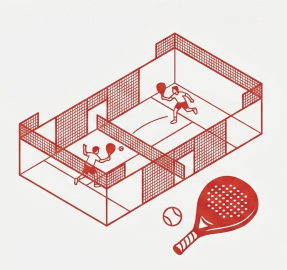
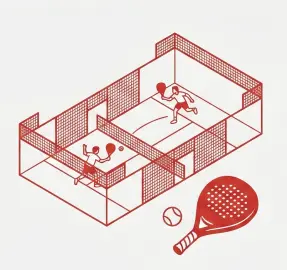
fix: BookModal - proper WebP images, side-by-side cards on mobile

diff --git a/components/BookModal.tsx b/components/BookModal.tsx
@@ -43,7 +43,7 @@ export default function BookModal() {
 
   return (
     <Dialog open={isBookModalOpen} onOpenChange={(open) => !open && closeBookModal()}>
-      <DialogContent className="max-w-[777px] p-0 overflow-hidden bg-white border-none rounded-none">
+      <DialogContent className="max-w-[95vw] sm:max-w-[777px] p-0 overflow-hidden bg-white border-none rounded-none">
         {/* Close button - custom SVG X icon */}
         <button
           type="button"
@@ -65,31 +65,31 @@ export default function BookModal() {
         </DialogDescription>
 
         {/* Header */}
-        <div className="pt-14 pb-8 px-6 text-center">
-          <h1 className="text-[#2B2B2B] font-extrabold text-3xl sm:text-[44px] leading-tight uppercase tracking-wide">
+        <div className="pt-10 sm:pt-14 pb-4 sm:pb-8 px-4 sm:px-6 text-center">
+          <h1 className="text-[#2B2B2B] font-extrabold text-2xl sm:text-[44px] leading-tight uppercase tracking-wide">
             {modalTitle}
           </h1>
-          <p className="mt-3 text-[#6B7280] text-base font-normal">
+          <p className="mt-2 sm:mt-3 text-[#6B7280] text-sm sm:text-base font-normal">
             {modalSubtitle}
           </p>
         </div>
 
         {/* Cards */}
-        <div className="flex flex-col sm:flex-row gap-8 px-10 pb-10 items-stretch">
+        <div className="flex flex-row gap-3 sm:gap-8 px-4 sm:px-10 pb-10 items-stretch">
           {/* Sport 1 Card (Padel) */}
-          <div className="flex-1 bg-[#F3F3F3] flex flex-col items-center overflow-hidden min-h-[360px] sm:min-h-[466px]">
+          <div className="flex-1 bg-[#F3F3F3] flex flex-col items-center overflow-hidden min-h-[300px] sm:min-h-[466px]">
             <div className="flex-1 flex items-center justify-center p-5 w-full">
               <Image
                 src={sport1Image}
                 alt={sport1Title}
                 width={287}
                 height={270}
-                className="w-full max-w-[287px] h-auto object-contain"
-                sizes="(max-width: 768px) 100vw, 287px"
+                className="w-full max-w-[140px] sm:max-w-[287px] h-auto object-contain"
+                sizes="(max-width: 768px) 50vw, 287px"
               />
             </div>
             <div className="pb-6 text-center w-full px-6">
-              <h2 className="text-[#D2352B] font-extrabold text-[36px] uppercase text-center mb-6">
+              <h2 className="text-[#D2352B] font-extrabold text-xl sm:text-[36px] uppercase text-center mb-3 sm:mb-6">
                 {sport1Title}
               </h2>
               {sport1ButtonTitle && (
@@ -98,7 +98,7 @@ export default function BookModal() {
                     type="button"
                     onClick={() => handleOpenBooking(sport1Url)}
                     aria-label={`${sport1ButtonTitle} ${sport1Title} (opens in new tab)`}
-                    className="flex items-center gap-3 px-8 py-4 border border-[#D2352B] rounded-sm text-[#D2352B] font-bold text-sm uppercase tracking-wide hover:bg-[#D2352B]/5 transition-colors w-full max-w-[260px] justify-center cursor-pointer"
+                    className="flex items-center gap-3 px-4 sm:px-8 py-3 sm:py-4 border border-[#D2352B] rounded-sm text-[#D2352B] font-bold text-xs sm:text-sm uppercase tracking-wide hover:bg-[#D2352B]/5 transition-colors w-full max-w-[260px] justify-center cursor-pointer"
                   >
                     {sport1ButtonTitle}
                     <svg width="24" height="24" viewBox="0 0 24 24" fill="none" xmlns="http://www.w3.org/2000/svg">
@@ -111,19 +111,19 @@ export default function BookModal() {
           </div>
 
           {/* Sport 2 Card (Pickleball) */}
-          <div className="flex-1 bg-[#F3F3F3] flex flex-col items-center overflow-hidden min-h-[360px] sm:min-h-[466px]">
+          <div className="flex-1 bg-[#F3F3F3] flex flex-col items-center overflow-hidden min-h-[300px] sm:min-h-[466px]">
             <div className="flex-1 flex items-center justify-center p-5 w-full">
               <Image
                 src={sport2Image}
                 alt={sport2Title}
                 width={287}
                 height={270}
-                className="w-full max-w-[287px] h-auto object-contain"
-                sizes="(max-width: 768px) 100vw, 287px"
+                className="w-full max-w-[140px] sm:max-w-[287px] h-auto object-contain"
+                sizes="(max-width: 768px) 50vw, 287px"
               />
             </div>
             <div className="pb-6 text-center w-full px-6">
-              <h2 className="text-[#003E6B] font-extrabold text-[36px] uppercase text-center mb-6">
+              <h2 className="text-[#003E6B] font-extrabold text-xl sm:text-[36px] uppercase text-center mb-3 sm:mb-6">
                 {sport2Title}
               </h2>
               {sport2ButtonTitle && (
@@ -132,7 +132,7 @@ export default function BookModal() {
                     type="button"
                     onClick={() => handleOpenBooking(sport2Url)}
                     aria-label={`${sport2ButtonTitle} ${sport2Title} (opens in new tab)`}
-                    className="flex items-center gap-3 px-8 py-4 border border-[#003E6B] rounded-sm text-[#003E6B] font-bold text-sm uppercase tracking-wide hover:bg-[#003E6B]/5 transition-colors w-full max-w-[260px] justify-center cursor-pointer"
+                    className="flex items-center gap-3 px-4 sm:px-8 py-3 sm:py-4 border border-[#003E6B] rounded-sm text-[#003E6B] font-bold text-xs sm:text-sm uppercase tracking-wide hover:bg-[#003E6B]/5 transition-opacity w-full max-w-[260px] justify-center cursor-pointer"
                   >
                     {sport2ButtonTitle}
                     <svg width="24" height="24" viewBox="0 0 24 24" fill="none" xmlns="http://www.w3.org/2000/svg">
